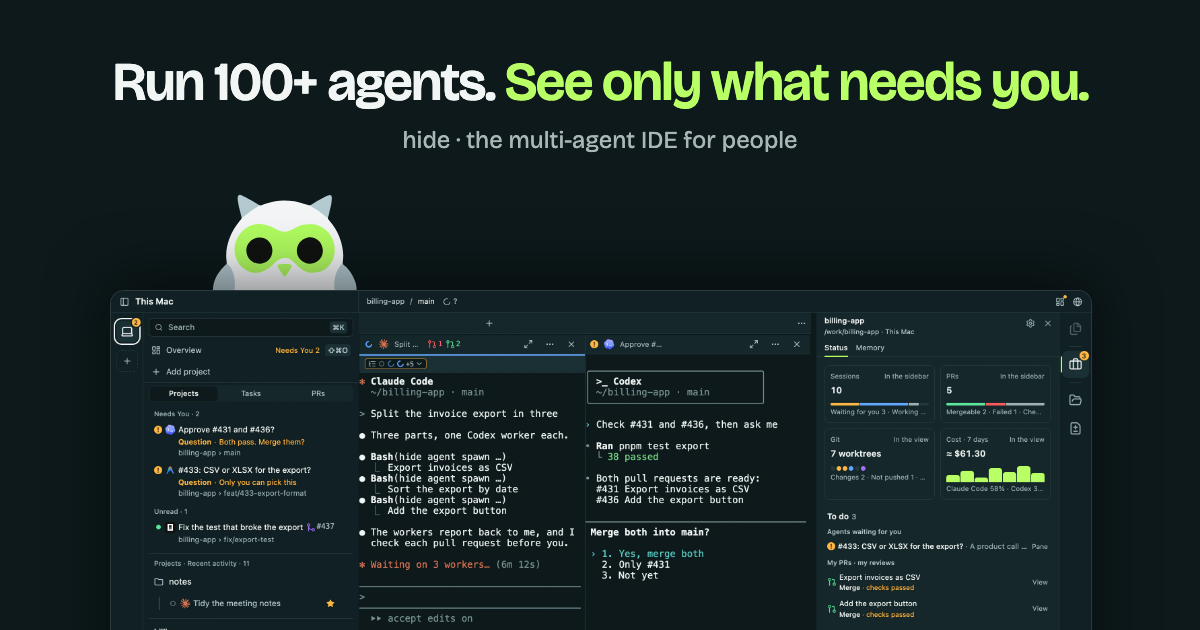
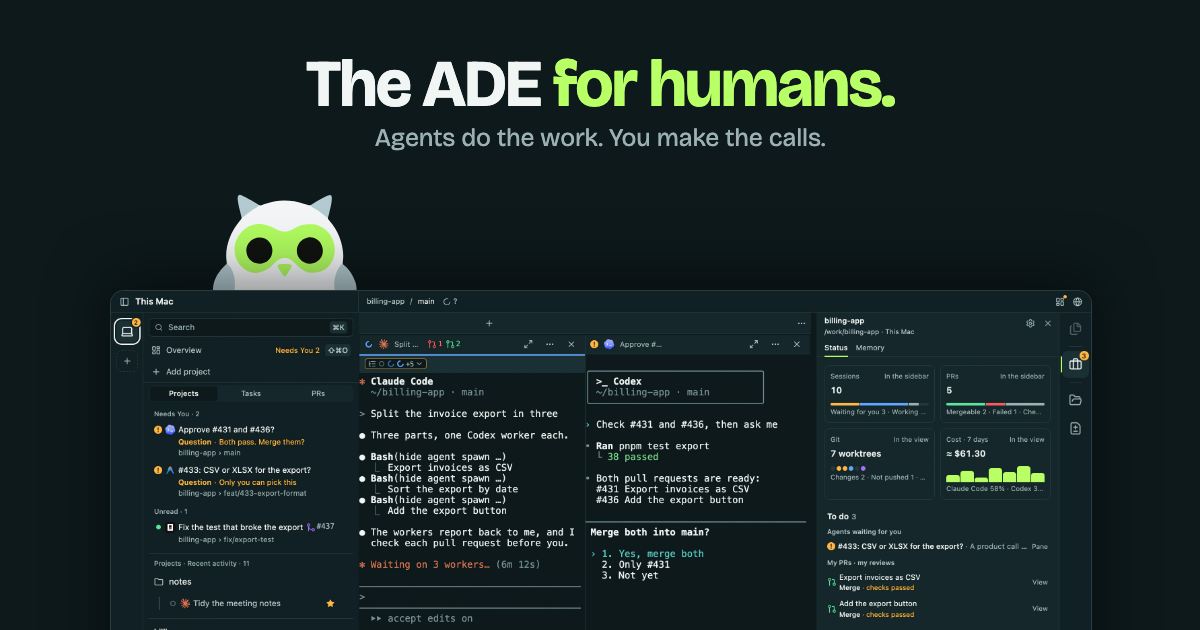
docs: lead the README and landing with The ADE for humans

Changed region(s): [[0.0925, 0.0905, 0.925, 0.181], [0.3083, 0.2111, 0.6783, 0.2413]]

diff --git a/site/index.html b/site/index.html
@@ -3,19 +3,19 @@
   <head>
     <meta charset="utf-8">
     <meta name="viewport" content="width=device-width, initial-scale=1">
-    <meta name="description" content="hide is the multi-agent IDE for people. Your agents start, watch and write to each other in the terminal you already use, and only decisions reach you. Free and fair source (FSL).">
+    <meta name="description" content="hide is the ADE for humans, an agentic development environment where agents do the work and you make the calls. Your agents start, watch and write to each other in the terminal you already use, and only decisions reach you. Free and fair source (FSL).">
     <meta name="theme-color" content="#0d191b" media="(prefers-color-scheme: dark)">
     <meta name="theme-color" content="#f4f4f6" media="(prefers-color-scheme: light)">
     <meta property="og:type" content="website">
-    <meta property="og:title" content="hide · Run 100+ agents. See only what needs you.">
-    <meta property="og:description" content="The multi-agent IDE for people. Agents start, watch and write to each other, and only decisions reach you. Free and fair source (FSL).">
+    <meta property="og:title" content="hide · The ADE for humans.">
+    <meta property="og:description" content="The ADE for humans: agents do the work, you make the calls. Agents start, watch and write to each other, and only decisions reach you. Free and fair source (FSL).">
     <meta property="og:image" content="https://withhide.dev/assets/og.png">
     <meta property="og:image:width" content="1200">
     <meta property="og:image:height" content="630">
     <meta property="og:image:alt" content="The hide owl peeking over the hide window, under the line Run 100+ agents. See only what needs you.">
     <meta name="twitter:card" content="summary_large_image">
     <meta name="twitter:image" content="https://withhide.dev/assets/og.png">
-    <title>hide · Run more agents. Hold less.</title>
+    <title>hide · The ADE for humans</title>
     <link rel="icon" type="image/png" href="./assets/hide-mark.png">
     <link rel="preload" as="font" href="./assets/fonts/BricolageGrotesque-Variable.woff2" type="font/woff2" crossorigin>
     <link rel="preload" as="image" href="./assets/shots/hero.webp" type="image/webp">
@@ -53,9 +53,9 @@
     <main id="main">
       <section class="hero" aria-labelledby="intro-title">
         <div class="wrap hero-copy">
-          <p class="label bare">The multi-agent IDE for people</p>
-          <h1 id="intro-title">Run 100+ agents.<br> <span class="accent">See only what needs you.</span></h1>
-          <p class="lead">Hand a Conductor one mission. It plans the work, starts Claude Code, Codex, Antigravity and Grok on every machine you connect, and brings you only the decisions.</p>
+          <p class="label bare">Agentic development environment</p>
+          <h1 id="intro-title">The ADE<br> <span class="accent">for humans.</span></h1>
+          <p class="lead">Agents do the work. You make the calls. Hand a Conductor one mission. It plans the work, starts Claude Code, Codex, Antigravity and Grok on every machine you connect, and brings you only the decisions.</p>
           <div class="actions">
             <a class="button primary" id="hero-download" href="#download">Get hide <span aria-hidden="true">↓</span></a>
             <a class="button secondary" href="https://github.com/with-hide/hide">View on GitHub <span aria-hidden="true">↗</span></a>
@@ -402,7 +402,7 @@
 
     <footer class="site-footer">
       <div class="wrap">
-        <span>hide · Run more agents. Hold less.</span>
+        <span>hide · The ADE for humans</span>
         <p class="footer-contact">Contact, Enterprise and teams: <a href="mailto:hello@withhide.dev">hello@withhide.dev</a></p>
         <nav aria-label="More about hide">
           <a href="https://github.com/with-hide/hide">Source</a>

diff --git a/site/README.md b/site/README.md
@@ -62,7 +62,7 @@ Browser QA should simulate GitHub responses at that external boundary for ready,
 The brand line, approved owl mark, palette and voice come from [BRAND.md](../docs/BRAND.md).
 `assets/hide-mark.png` is an unchanged copy of `design/brand/hide-mark.png`; keep its full square and proportions.
 `assets/hide-icon-blinking.svg` is an unchanged copy of `design/brand/hide-icon-blinking.svg`, the animated app icon, and `assets/hide-icon.svg` is the same file with its `<animateTransform>` elements removed, which leaves the resting pose.
-The page is the multi-agent IDE for people: "Run more agents. Hold less." It is kept short, one claim and one picture per section, in this order: the hero (a short loop of the Conductor film and the supported agents), Conductor (the Conductor film in one frame with its chapters Plan, Start, Ask and Report above it), bird's eye (one frame with six chapters above it: a lead pane's eleven workers drawn by the page, Tiled, Folded, Filed and Asked, then the focus film, From above and My turn), Hide AI (one frame and a list beside it: the switch that turns the same Tasks list from off to on, a session record, the PR list and the memory film), beside the agent (a Codex pane and its View area in three steps: the spec PDF it opened, the page it opened, and the page after its pointer pressed the button), every machine (a map of a laptop, a Linux server and the always-on core beside a drawn phone, with a letter running between agents on different machines until the phone gets the ask and answers it, a line saying the phone works in its browser today with apps coming, and three facts about pairing, notifications and the encrypted relay), pricing (the free plan, an Enterprise plan beside it that asks teams to get in touch, and a line for the Software Factory), the FAQ, and a closing that carries the download chooser.
+The page is the ADE for humans: "Agents do the work. You make the calls." The closing keeps "Run more agents. Hold less." It is kept short, one claim and one picture per section, in this order: the hero (a short loop of the Conductor film and the supported agents), Conductor (the Conductor film in one frame with its chapters Plan, Start, Ask and Report above it), bird's eye (one frame with six chapters above it: a lead pane's eleven workers drawn by the page, Tiled, Folded, Filed and Asked, then the focus film, From above and My turn), Hide AI (one frame and a list beside it: the switch that turns the same Tasks list from off to on, a session record, the PR list and the memory film), beside the agent (a Codex pane and its View area in three steps: the spec PDF it opened, the page it opened, and the page after its pointer pressed the button), every machine (a map of a laptop, a Linux server and the always-on core beside a drawn phone, with a letter running between agents on different machines until the phone gets the ask and answers it, a line saying the phone works in its browser today with apps coming, and three facts about pairing, notifications and the encrypted relay), pricing (the free plan, an Enterprise plan beside it that asks teams to get in touch, and a line for the Software Factory), the FAQ, and a closing that carries the download chooser.
 Each section's claims follow the owning guide: the supported agents and their tiers [agent-hooks.md](../docs/agent-hooks.md), the four groups and status marks [status-model.md](../docs/status-model.md), agents handing work to each other [delivery.md](../docs/delivery.md), the core, devices and the phone [ARCHITECTURE.md](../docs/ARCHITECTURE.md) and [INSTALL.md](../docs/INSTALL.md), Hide AI [AI_PROVIDERS.md](../docs/AI_PROVIDERS.md), Project Memory, the backlog, the sidebar's lists, the Project tool, the Overview and the session record [UI_BEHAVIOR.md](../docs/UI_BEHAVIOR.md), the browser display and its commands [BROWSER_DISPLAYS.md](../docs/BROWSER_DISPLAYS.md).
 Every still picture of a hide screen is the app itself, never a drawing of it: `assets/shots/` holds captures of the shell's own window and crops of it, over invented example work (a Claude Code lead with Codex, Antigravity and OpenCode agents), each in Dark and Light at 2x, and the page picks one with `prefers-color-scheme`.
 They are produced by the gallery's `landing` scene (`web/src/gallery/LandingScene.tsx`, with its text in `landingSceneData.ts`, the frozen sidebar and Overview fixtures reworded, and the project's tasks, counts and cost written for the story), so they match the shipped UI and carry no personal data; `/gallery?scene=landing&shot=hero|tasks|quiet|prs|map|projects|attention|plain|team|pr|record|conductor|memory|browser-spec|browser-page|browser|core&theme=dark|light` opens one; the lane shots' card, record and mission are in `landingLaneData.ts`.

diff --git a/docs/BRAND.md b/docs/BRAND.md
@@ -5,7 +5,8 @@
 hide is a multi-agent IDE that helps one person keep several coding efforts in view without watching every terminal.
 It preserves the context of each task and brings forward the questions, approvals, and results that need a person's attention.
 
-**Brand line:** Run more agents. Hold less.
+**Brand line:** The ADE for humans.
+**Supporting line:** Run more agents. Hold less.
 **Korean line:** 여러 에이전트의 흐름은 한눈에, 집중은 필요한 곳에만.
 
 The product should make three things easy:

diff --git a/README.md b/README.md
@@ -5,8 +5,8 @@
 <h1 align="center">hide</h1>
 
 <p align="center">
-  <strong>Run more agents. Hold less.</strong><br>
-  The multi-agent IDE for Claude Code, Codex and whatever comes next.
+  <strong>The ADE for humans.</strong><br>
+  Your agents run the work. hide reads every session and brings you only what needs a person.
 </p>
 
 <p align="center">
